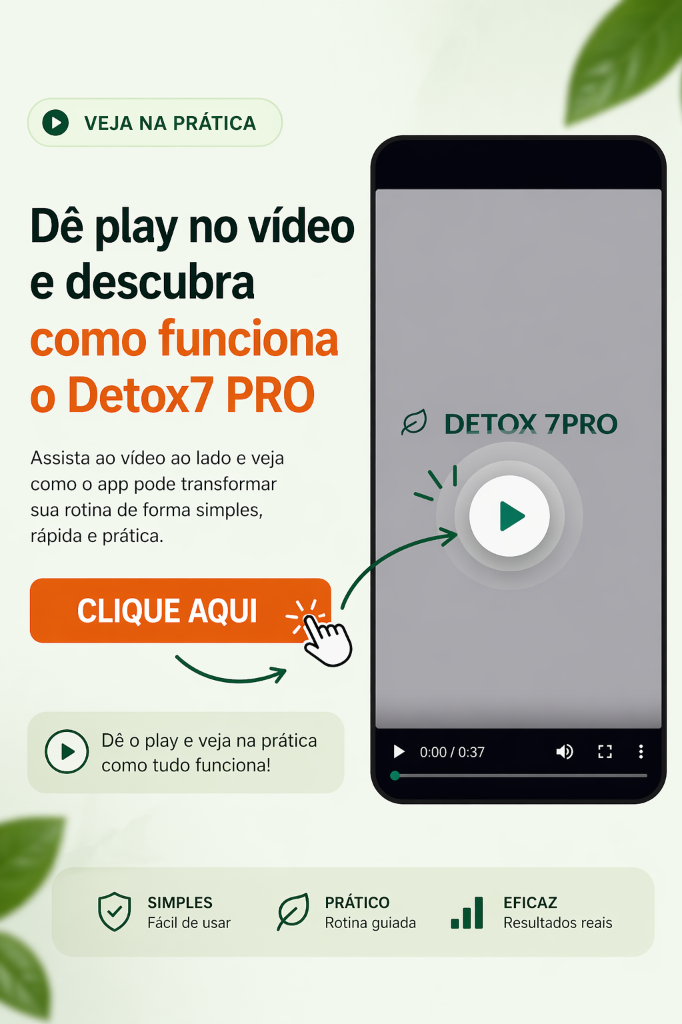
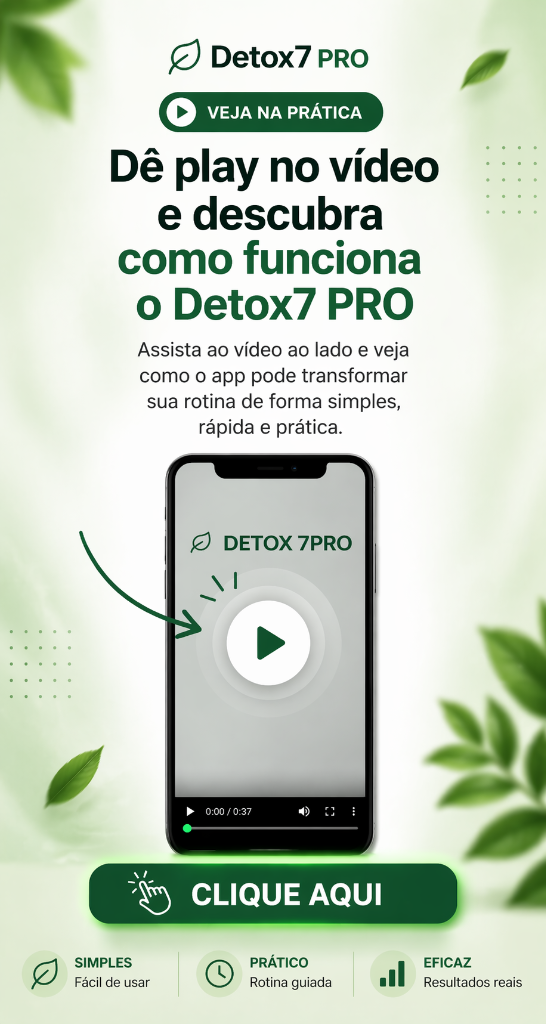
Update video poster image and set to object-contain

diff --git a/app/OfferPage.tsx b/app/OfferPage.tsx
@@ -339,7 +339,7 @@ export function OfferPage() {
                   <img
                     src="/images/video-poster.png"
                     alt="Dê play no vídeo e descubra como funciona o Detox7 PRO"
-                    className="h-full w-full object-cover"
+                    className="h-full w-full object-contain"
                   />
                 </button>
               )}
